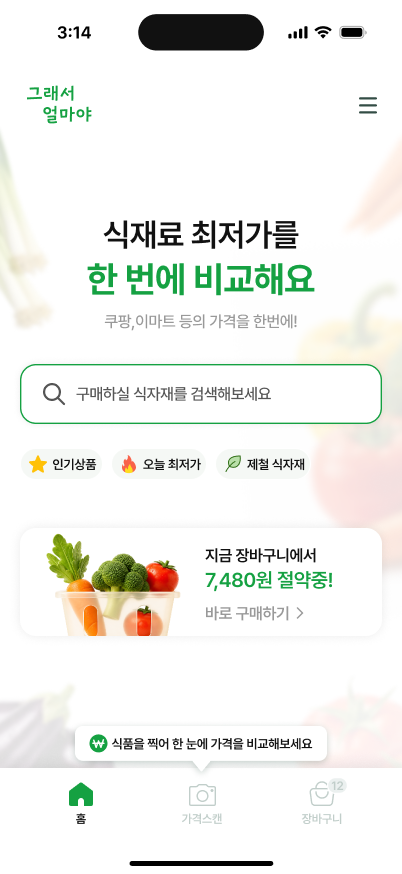
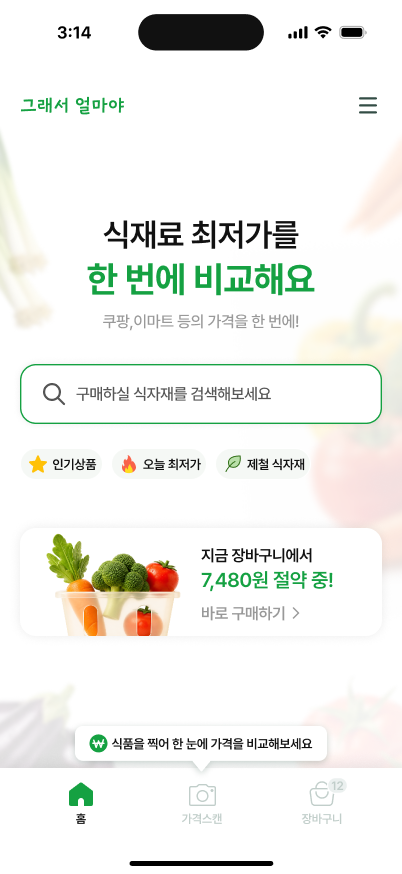
update website

diff --git a/index.html b/index.html
@@ -168,17 +168,14 @@ section[id],
 }
 
 /* 로고 */
-.logo { z-index: 10; flex-shrink: 0; }
+.logo { z-index: 10; flex-shrink: 0; position: relative; top: 3px; }
 .logo img {
     height: 34px; /* 기존 28px에서 약 20% 증가, GNB 높이(48px) 내에 안전하게 맞춤 */
     cursor: pointer;
     transition: transform 0.3s ease, filter 0.35s ease;
 }
 .logo:hover img { transform: scale(1.05); }
-/* 다크 모드 로고: 밝기 올려서 보이게 */
-.top-nav.dark-mode .logo img {
-    filter: brightness(10);
-}
+/* 다크 모드 로고 반전 효과 제거 (항상 본래 색상 유지) */
 
 /* 링크 래퍼 */
 .nav-links {
@@ -243,40 +240,7 @@ section[id],
     to   { opacity: 1; transform: translateY(0); }
 }
 
-        /* [성공적.html 유지] Buttons: 다크 글래스 및 빛 스윕 효과 */
-        .button-group { display: flex; gap: 12px; align-items: center; z-index: 10; }
-        .button {
-            position: relative; overflow: hidden; padding: 12px 24px; font-weight: 600; border-radius: 8px; 
-            cursor: pointer; transition: all 0.3s ease; text-decoration: none; display: inline-flex; align-items: center; justify-content: center;
-        }
-        .button-store {
-            background: rgba(30, 30, 30, 0.75); backdrop-filter: blur(12px); -webkit-backdrop-filter: blur(12px);
-            color: #ffffff; border: 1px solid rgba(255, 255, 255, 0.2); font-size: 14px;
-        }
-        .button-store:hover {
 
-    background:
-        rgba(10,10,10,0.92);
-
-    border-color:
-        rgba(49,173,38,0.5);
-
-    transform:
-        translateY(-3px)
-        scale(1.02);
-
-    box-shadow:
-        0 14px 30px rgba(49,173,38,0.18),
-        0 8px 18px rgba(0,0,0,0.12);
-}
-        .button-store img { width: 20px; height: 20px; margin-right: 10px; object-fit: contain; }
-
-        .button::before {
-            content: ''; position: absolute; top: 0; left: -150%; width: 100%; height: 100%;
-            background: linear-gradient(90deg, transparent, rgba(255,255,255,0.4), transparent);
-            transform: skewX(-20deg); transition: 0.6s ease; z-index: 1; pointer-events: none;
-        }
-        .button:hover::before { left: 150%; }
 
         .ripple { position: absolute; border-radius: 50%; transform: scale(0); animation: ripple-anim 0.6s linear; background-color: rgba(255, 255, 255, 0.5); pointer-events: none; z-index: 2; }
         @keyframes ripple-anim { to { transform: scale(4); opacity: 0; } }
@@ -887,7 +851,7 @@ APP EXPERIENCE SECTION
 
     position:relative;
 
-    padding: 64px 0;
+    padding: 64px 0 30vh; /* 하단에 충분한 여백을 두어 다음 섹션이 미리 보이지 않도록 함 */
 
     background:
         #ffffff;
@@ -983,36 +947,37 @@ APP EXPERIENCE SECTION
 }
 
 .feature-phone{
-
-    width:260px;
-
-    height:564px;
-
-    border-radius:36px;
-
-    overflow:hidden;
-
-    background:#111;
-
+    width:276px;
+    height:567px;
+    border-radius:40px;
+    overflow:visible;
+    background:transparent;
     position:relative;
+    border:none;
+    filter: drop-shadow(0 20px 50px rgba(0,0,0,0.12));
+}
 
-    box-shadow:
-        0 40px 80px rgba(0,0,0,0.10),
-        0 10px 30px rgba(0,0,0,0.06);
-
-    border:
-        2px solid #1c1c1c;
+.feature-phone::after{
+    content:'';
+    position:absolute;
+    top:0; left:0;
+    width:100%; height:100%;
+    background:url('files/iphone.png') center/contain no-repeat;
+    pointer-events:none;
+    z-index:2;
 }
 
 .feature-phone video{
-
-    width:100%;
-
-    height:100%;
-
+    position:absolute;
+    top:calc(1.0% + 2px);
+    left:2.5%;
+    width:95.0%;
+    height:98.0%;
     object-fit:cover;
-
+    object-position:top center;
     display:block;
+    border-radius:32px;
+    z-index:1;
 }
 
 .feature-copy{
@@ -1042,7 +1007,7 @@ APP EXPERIENCE SECTION
 
     line-height:1.18;
 
-    letter-spacing:-2px;
+    letter-spacing:-0.5px;
 
     font-weight:800;
 
@@ -1173,10 +1138,8 @@ RESPONSIVE
     }
 
     .feature-phone{
-
-        width:280px;
-
-        height:580px;
+        width:296px;
+        height:608px;
     }
 }
 
@@ -1508,8 +1471,7 @@ width:clamp(180px, 14vw, 270px);
         .conclusion-section { position: relative; height: 100vh; display: flex; align-items: center; justify-content: center; background-color: var(--colors-inverse-canvas); color: var(--colors-inverse-ink); overflow: hidden; text-align: center; }
         .conclusion-video { position: absolute; inset: 0; width: 100%; height: 100%; object-fit: cover; z-index: 0; }
         .conclusion-dim { position: absolute; inset: 0; width: 100%; height: 100%; background: rgba(0, 0, 0, 0.8); z-index: 0; }
-        .conclusion-section .button-store { background: rgba(255, 255, 255, 0.1); color: #ffffff; border: 1px solid rgba(255, 255, 255, 0.2); }
-        .conclusion-section .button-store:hover { background: rgba(255, 255, 255, 0.2); border-color: var(--colors-primary); }
+
         .ai-grid-bg { position: absolute; top: -50%; left: -50%; width: 200%; height: 200%; background-image: radial-gradient(circle at 0px 0px, rgba(49, 173, 38, 0.25) 2px, transparent 4px), linear-gradient(rgba(255, 255, 255, 0.08) 1px, transparent 1px), linear-gradient(90deg, rgba(255, 255, 255, 0.08) 1px, transparent 1px); background-size: 64px 64px, 64px 64px, 64px 64px; animation: gridPan 30s linear infinite, gridSubtleGlow 20s ease-in-out infinite alternate; will-change: transform, opacity; z-index: 1; }
         @keyframes gridPan { 0% { transform: translate(0, 0); } 100% { transform: translate(64px, 64px); } }
         @keyframes gridSubtleGlow { 0% { opacity: 0.4; } 50% { opacity: 0.7; } 100% { opacity: 0.4; } }
@@ -2561,6 +2523,26 @@ WHY TECH SECTION
     text-align: center;
     text-shadow: 0 4px 12px rgba(0,0,0,0.3);
 }
+.hooking-click-hint {
+    position: absolute;
+    top: -30px;
+    left: 50%;
+    transform: translateX(-50%);
+    font-size: 13px;
+    font-family: "Pretendard", sans-serif;
+    font-weight: 500;
+    letter-spacing: 2px;
+    color: rgba(255, 255, 255, 0.6);
+    pointer-events: none;
+    animation: clickHintBounce 2s infinite ease-in-out;
+    white-space: nowrap;
+}
+
+@keyframes clickHintBounce {
+    0%, 100% { transform: translate(-50%, 0); opacity: 0.4; }
+    50% { transform: translate(-50%, -5px); opacity: 0.9; }
+}
+
 .hooking-center-item img {
     width: 100px;
     height: 100px;
@@ -3827,10 +3809,6 @@ COMPARISON SECTION
 
 /* LEFT */
 
-.compare-table-wrap {
-    /* 부모 래퍼는 애니메이션 없음 */
-}
-
 /* 표 영역 */
 .compare-table-wrap .compare-table {
     opacity: 0;
@@ -4264,14 +4242,14 @@ COMPARISON SECTION
 .spectrum-narrow-left {
     left: 0;
     width: 33.333%;
-    background: #ebebeb;
+    background: #c8c8c8;
 }
 
 /* 경쟁사: 우측 좁은 범위 */
 .spectrum-narrow-right {
     left: 66.666%;
     width: 33.333%;
-    background: #ebebeb;
+    background: #c8c8c8;
 }
 
 /* 그래서 얼마야: 전 범위 */
@@ -4778,7 +4756,7 @@ pointer-events:none;
 /* △ */
 
 .symbol-triangle{
-    color:#ddd;
+    color:#b8b8b8;
     font-weight:700;
     font-size:21px;
 }
@@ -4786,7 +4764,7 @@ pointer-events:none;
 /* X */
 
 .symbol-x{
-    color:#eee;
+    color:#c4c4c4;
     font-weight:700;
     font-size:21px;
 }
@@ -5767,16 +5745,7 @@ TECH PIPELINE UI
 <span>이제 끝내세요.</span>
 </h1>
                     <p class="hero-sub-text">자주 이용하는 마트와 플랫폼을 등록하면<br>원하는 식재료의 가장 저렴한 판매 플랫폼을 알려드립니다.</p>
-                    <!-- <div class="button-group" style="margin-top: 48px;">
-                        <a href="#" class="button button-store button-ripple" style="padding: 14px 28px; font-size: 16px;">
-                            <img src="files/appstore.png" alt="App Store 로고">
-                            App Store
-                        </a>
-                        <a href="#" class="button button-store button-ripple" style="padding: 14px 28px; font-size: 16px;">
-                            <img src="files/googleplay.png" alt="Google Play 로고">
-                            Google Play
-                        </a>
-                    </div> -->
+
                 </div>
                 
             </div>
@@ -5800,6 +5769,7 @@ TECH PIPELINE UI
 
         <!-- 중앙 사과 이미지 (클릭 전) -->
         <div class="hooking-center-item">
+            <span class="hooking-click-hint">Click</span>
             <img src="files/apple.png" alt="사과">
             <h3 class="hooking-pre-text">사과 한 봉지.<br>어디서 사는게 제일 저렴할까요?</h3>
         </div>
@@ -6116,7 +6086,7 @@ TECH PIPELINE UI
                     <div class="process-number">01</div>
                     <div class="process-text">
                         <h3>플랫폼 등록</h3>
-                        <p>자주 사용하는 마트와 배송 앱을 등록하세요</p>
+                        <p>자주 사용하는 마트와 쇼핑 앱을 등록하세요</p>
                         <span class="stat-badge">자주 사용하는 플랫폼 등록</span>
                     </div>
                     <div class="process-graphic"><img src="files/step1.png" alt="플랫폼 등록"></div>
@@ -6135,8 +6105,8 @@ TECH PIPELINE UI
                 <div class="process-row reveal-step" id="step3">
                     <div class="process-number">03</div>
                     <div class="process-text">
-                        <h3>장바구니 최저가 확인</h3>
-                        <p>장바구니에서 합리적인 품질과 가격을 확인해요</p>
+                        <h3>장바구니 확인</h3>
+                        <p>구매 플랫폼과 절약한 금액을 확인하세요</p>
                         <span class="stat-badge">합리적인 식자재 확인</span>
                     </div>
                     <div class="process-graphic"><img src="files/step3.png" alt="장바구니 확인"></div>
@@ -6146,7 +6116,7 @@ TECH PIPELINE UI
                     <div class="process-number">04</div>
                     <div class="process-text">
                         <h3>최저가 결제</h3>
-                        <p>가장 저렴한 플랫폼으로 이동해서 빠르게 결제해요</p>
+                        <p>저렴한 플랫폼으로 이동해서 빠르게 결제하세요</p>
                         <span class="stat-badge">가장 저렴한 판매처에서 알뜰 소비</span>
                     </div>
                     <div class="process-graphic"><img src="files/step4.png" alt="최저가 결제"></div>
@@ -6197,7 +6167,7 @@ TECH PIPELINE UI
             </div>
             <div class="feature-copy">
                 <span class="feature-mini-label">01. ONBOARDING</span>
-                <h3>스마트한 장보기의 시작</h3>
+                <h3>스마트한<br> 장보기의 시작</h3>
                 <p>자주 사용하는 온오프라인 플랫폼을 설정하고<br>맞춤형 장보기를 시작하세요</p>
             </div>
         </div>
@@ -6370,7 +6340,7 @@ TECH PIPELINE UI
         <div class="tech-step">STEP 04</div>
         <div class="tech-icon">⚡</div>
 
-        <h3>실시간 추천 제공</h3>
+        <h3>플랫폼 추천 제공</h3>
 
         <p>
             사용자는 최적의 판매 플랫폼을<br>
@@ -6836,12 +6806,12 @@ TECH PIPELINE UI
                     </div>
 
                     <h3>
-                        실시간 지역 장보기 데이터
+                        지역으로의 확장
                     </h3>
 
                     <p>
-                        지역 기반 가격 흐름과 전통 시장과 같은<br>
-                         지역 특징적 가격 정보까지 연결합니다
+                        지역 전통시장이나 소규모 마트까지,<br>
+                        세밀한 가격 정보를 연결합니다
                     </p>
                         <div class="future-visual">
         <img src="files/future-icon-3.png" alt="">
@@ -6930,7 +6900,7 @@ TECH PIPELINE UI
 
     <footer class="footer">
         <div class="container">
-            <img src="files/logo.png" alt="로고" style="height: 30px; filter: brightness(0) invert(1); margin-bottom: 32px;">
+            <img src="files/logo.png" alt="로고" style="height: 30px; margin-bottom: 32px;">
             <p>© 2026 So How Much. All rights reserved.</p>
         </div>
     </footer>
@@ -7880,5 +7850,24 @@ document.addEventListener('DOMContentLoaded', () => {
 
 
 
+<script>
+// Prevent multiple videos from freezing by playing only visible ones
+document.addEventListener('DOMContentLoaded', () => {
+    const allVideos = document.querySelectorAll('video');
+    const globalVideoObserver = new IntersectionObserver((entries) => {
+        entries.forEach(entry => {
+            if (entry.isIntersecting) {
+                // Play when in view
+                entry.target.play().catch(e => console.log('Play prevented', e));
+            } else {
+                // Pause when out of view to save resources
+                entry.target.pause();
+            }
+        });
+    }, { threshold: 0.1 });
+
+    allVideos.forEach(v => globalVideoObserver.observe(v));
+});
+</script>
 </body>
 </html>